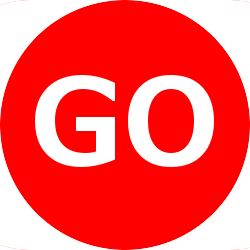
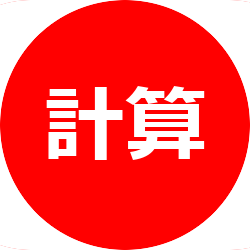
Add files via upload

Changed region(s): [[0.14, 0.28, 0.868, 0.672]]

diff --git a/index.html b/index.html
@@ -36,8 +36,8 @@
         </p>
         <div id="btn3">
           <!-- Reset Delete 計算-->
-          <button onclick="location.reload();"><img src="img/reset.png" alt="Reset" /></button>
-          <button type="reset"><img src="img/delete.png" alt="Delete" /></button>
+          <button onclick="location.reload();"><img src="img/reset.png" alt="全消去" /></button>
+          <button type="reset"><img src="img/delete.png" alt="消去" /></button>
           <button id="keisan"><img src="img/keisan.png" alt="計算" /></button>
         </div>
       </div>

diff --git a/js/main.js b/js/main.js
@@ -22,12 +22,4 @@
     text1.focus();
   });
 
-
-  //　Resetボタンで更新
-  // const reload = document.getElementById('reload');
-
-  // reload.addEventListener('click', () => {
-  // window.location.reload();
-  // });
-
 }

diff --git a/css/style.css b/css/style.css
@@ -82,7 +82,7 @@ button img {
 }
 
 #keisan img {
-  height: 70px;
+  height: 60px;
   margin-left: 10px;
 }
 
